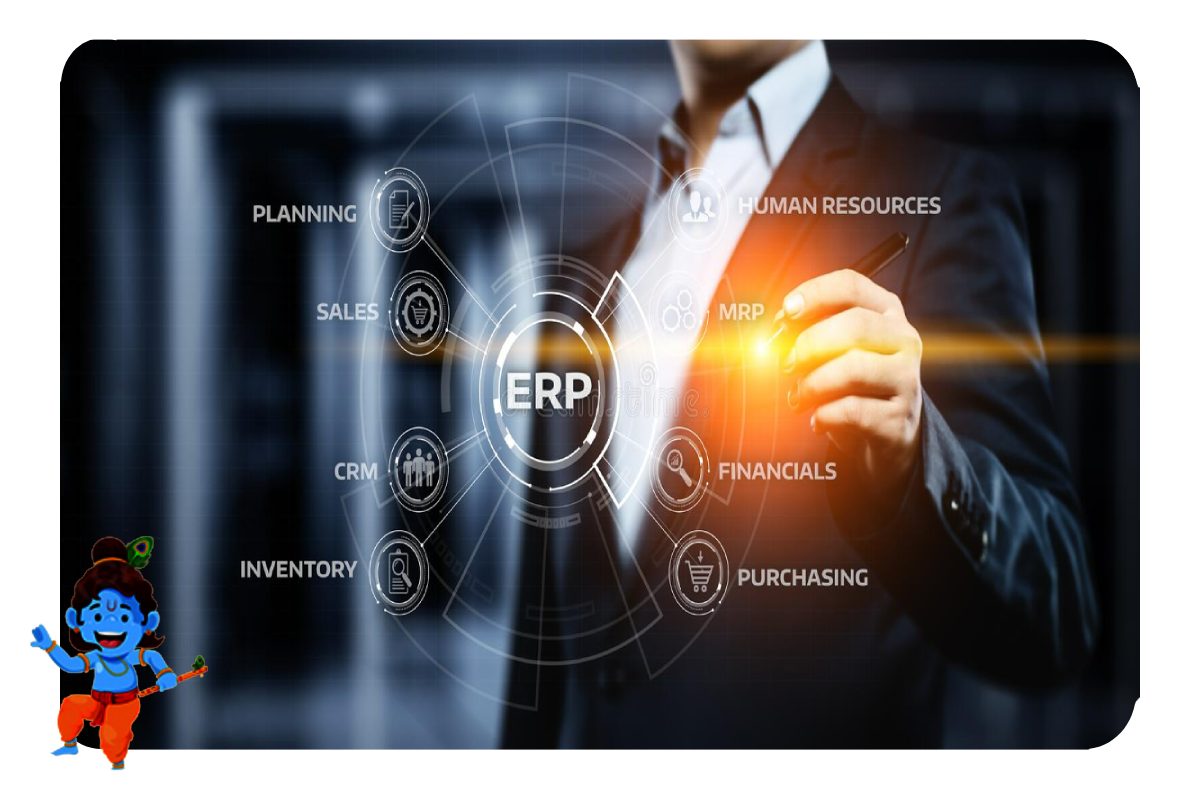
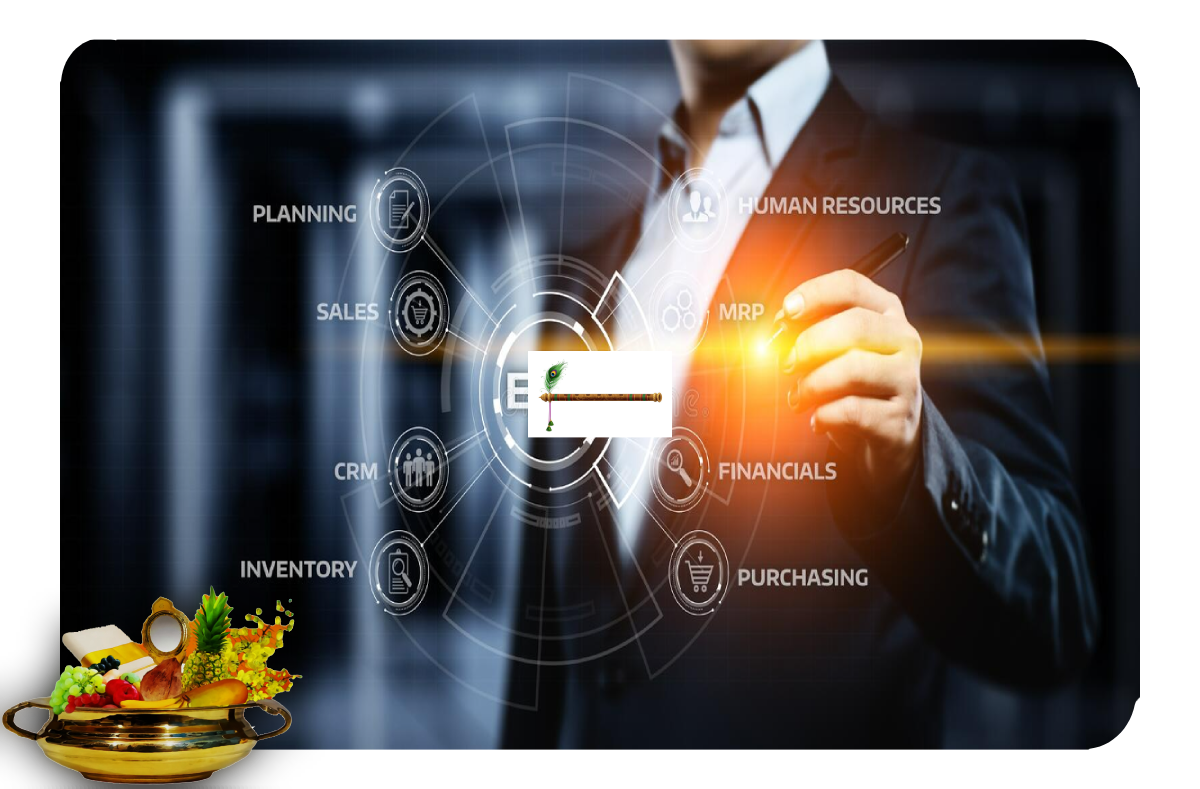
vishu sixth commit

Changed region(s): [[0.0, 0.6692, 0.2467, 1.0], [0.4317, 0.4259, 0.5858, 0.5779]]

diff --git a/app/templates/Textpage.html b/app/templates/Textpage.html
@@ -3,6 +3,9 @@
   {% load static %}
 
   <head>
+    <!-- jquery -->
+    <script src="https://code.jquery.com/jquery-3.7.1.slim.js" integrity="sha256-UgvvN8vBkgO0luPSUl2s8TIlOSYRoGFAX4jlCIm9Adc=" crossorigin="anonymous"></script>
+
       <!-- Google Tag Manager -->
 <script>(function(w,d,s,l,i){w[l]=w[l]||[];w[l].push({'gtm.start':
 new Date().getTime(),event:'gtm.js'});var f=d.getElementsByTagName(s)[0],
@@ -616,10 +619,60 @@ j=d.createElement(s),dl=l!='dataLayer'?'&l='+l:'';j.async=true;j.src=
         text-shadow: 0px 0px 10px black;
       }
       #lord_krishna{
-        
+        width: 27rem;
+        transition: all 0.2s linear;
       }
       .lord_krishna_top{
-        margin-left: -0.75rem;
+        margin-left: -4rem;
+      }
+      @media screen and (max-width:1399px) {
+        #lord_krishna{
+          width: 25rem;
+          translate: all 0.2s linear;
+        }
+        .lord_krishna_top{
+          margin-left: -4rem;
+        }
+      }
+      @media screen and (max-width:1199px) {
+        #lord_krishna{
+          width: 22rem;
+          translate: all 0.2s linear;
+        }
+        .lord_krishna_top{
+          margin-bottom: 8rem;
+          margin-left: -4rem;
+        }
+      }
+      @media screen and (max-width:767px) {
+        #lord_krishna{
+          width: 18rem;
+          translate: all 0.2s linear;
+        }
+        .lord_krishna_top{
+          margin-bottom: 8rem;
+          margin-left: -4rem;
+        }
+      }
+      @media screen and (max-width:535px) {
+        #lord_krishna{
+          width: 15rem;
+          translate: all 0.2s linear;
+        }
+        .lord_krishna_top{
+          margin-bottom: 16rem;
+          margin-left: -4rem;
+        }
+      }
+      @media screen and (max-width:535px) {
+        #lord_krishna{
+          width: 7rem;
+          translate: all 0.2s linear;
+        }
+        .lord_krishna_top{
+          margin-bottom: 2rem;
+          margin-left: 0rem;
+        }
       }
       #fire_cracker_vishu{
         width: 18rem;
@@ -1712,7 +1765,7 @@ j=d.createElement(s),dl=l!='dataLayer'?'&l='+l:'';j.async=true;j.src=
                 Altos Technologies Success Story of 2023 
             </h5>
             <div class='ResponsiveYTPlayer'>
-              <iframe width="560" height="315" src="https://www.youtube.com/embed/d_QhmWvn-E0?si=3MDfmDdNzWTp3jw3&amp;controls=1&autoplay=1&mute=1&loop=1" title="YouTube video player" frameborder="0" allow="accelerometer; autoplay; clipboard-write; encrypted-media; gyroscope; picture-in-picture; web-share" allowfullscreen></iframe>
+              <!-- <iframe width="560" height="315" src="https://www.youtube.com/embed/d_QhmWvn-E0?si=3MDfmDdNzWTp3jw3&amp;controls=1&autoplay=1&mute=1&loop=1" title="YouTube video player" frameborder="0" allow="accelerometer; autoplay; clipboard-write; encrypted-media; gyroscope; picture-in-picture; web-share" allowfullscreen></iframe> -->
               
             </div>
 
@@ -1782,7 +1835,7 @@ j=d.createElement(s),dl=l!='dataLayer'?'&l='+l:'';j.async=true;j.src=
                   {% elif current_theme == 'vishu' %}
                   <div class="position-relative" style="z-index: 10;">
                     <div class="position-absolute start-50 translate-middle-x kp1_top"> 
-                      <img draggable="false"id="kp1" src="{% static 'vishu/decor/krishna_poses/krishna_poses1.png' %}" alt="">
+                      <img draggable="false"id="kp1" src="{% static 'vishu/decor/vishu_kanies/vishu_kani1.png' %}" alt="">
                     </div>
                   </div>
                   <i class="bx bx-receipt" style="color: #0fa49b;visibility: hidden;"></i>
@@ -1820,7 +1873,7 @@ j=d.createElement(s),dl=l!='dataLayer'?'&l='+l:'';j.async=true;j.src=
                   {% elif current_theme == 'vishu' %}
                   <div class="position-relative" style="z-index: 10;">
                     <div class="position-absolute start-50 translate-middle-x kp1_top"> 
-                      <img draggable="false"id="kp1" src="{% static 'vishu/decor/krishna_poses/krishna_poses2.png' %}" alt="">
+                      <img draggable="false"id="kp1" src="{% static 'vishu/decor/vishu_kanies/vishu_kani2.png' %}" alt="">
                     </div>
                   </div>
                   <i class="bx bx-support" style="color: #0fa49b;visibility: hidden;"></i>
@@ -1848,7 +1901,7 @@ j=d.createElement(s),dl=l!='dataLayer'?'&l='+l:'';j.async=true;j.src=
                   {% elif current_theme == 'vishu' %}
                   <div class="position-relative" style="z-index: 10;">
                     <div class="position-absolute start-50 translate-middle-x kp1_top"> 
-                      <img draggable="false"id="kp1" src="{% static 'vishu/decor/krishna_poses/krishna_poses3.png' %}" alt="">
+                      <img draggable="false"id="kp1" src="{% static 'vishu/decor/vishu_kanies/vishu_kani3.png' %}" alt="">
                     </div>
                   </div>
                   <i class="bx bx-shield" style="color: #0fa49b;visibility: hidden;"></i>
@@ -1874,7 +1927,7 @@ j=d.createElement(s),dl=l!='dataLayer'?'&l='+l:'';j.async=true;j.src=
                   {% elif current_theme == 'vishu' %}
                   <div class="position-relative" style="z-index: 10;">
                     <div class="position-absolute start-50 translate-middle-x kp1_top"> 
-                      <img draggable="false"id="kp1" src="{% static 'vishu/decor/krishna_poses/krishna_poses4.png' %}" alt="">
+                      <img draggable="false"id="kp1" src="{% static 'vishu/decor/vishu_kanies/vishu_kani4.png' %}" alt="">
                     </div>
                   </div>
                   <i class="bx bx-cube-alt" style="color: #0fa49b;visibility: hidden;"></i>
@@ -1903,7 +1956,7 @@ j=d.createElement(s),dl=l!='dataLayer'?'&l='+l:'';j.async=true;j.src=
                   {% elif current_theme == 'vishu' %}
                   <div class="position-relative" style="z-index: 10;">
                     <div class="position-absolute start-50 translate-middle-x kp1_top"> 
-                      <img draggable="false"id="kp1" src="{% static 'vishu/decor/krishna_poses/krishna_poses5.png' %}" alt="">
+                      <img draggable="false"id="kp1" src="{% static 'vishu/decor/vishu_kanies/vishu_kani5.png' %}" alt="">
                     </div>
                   </div>
                   <ion-icon
@@ -1936,7 +1989,7 @@ j=d.createElement(s),dl=l!='dataLayer'?'&l='+l:'';j.async=true;j.src=
                   {% elif current_theme == 'vishu' %}
                   <div class="position-relative" style="z-index: 10;">
                     <div class="position-absolute start-50 translate-middle-x kp1_top"> 
-                      <img draggable="false"id="kp1" src="{% static 'vishu/decor/krishna_poses/krishna_poses6.png' %}" alt="">
+                      <img draggable="false"id="kp1" src="{% static 'vishu/decor/vishu_kanies/vishu_kani6.png' %}" alt="">
                     </div>
                   </div>
                   <ion-icon name="people-outline" style="color: #0fa49b; visibility: hidden;">
@@ -1981,7 +2034,7 @@ j=d.createElement(s),dl=l!='dataLayer'?'&l='+l:'';j.async=true;j.src=
               </div>
             </div>
             <h1 class="visible-head" style="color: transparent;">
-              <span class="text-light">Our</span><span class="text-light"> Technologies</span>
+              <span class="vishu_text_bg1">Our</span><span class="vishu_text_bg1"> Technologies</span>
             </h1>
             {% else %}
             <h1 class="visible-head">
@@ -2345,6 +2398,8 @@ j=d.createElement(s),dl=l!='dataLayer'?'&l='+l:'';j.async=true;j.src=
           <!-- <h1>Clients</h1> -->
           {% if current_theme == 'pongal' %}
           <p class="pongal_text_theme" style="color: transparent;">Check our Clients</p>
+          {% elif current_theme == 'vishu' %}
+          <p class="vishu_text_bg1" style="color: transparent;">Check our Clients</p>
           {% else %}
           <p>Check our <span style="color: rgb(39, 112, 141)">Clients</span></p>
           {% endif %}
@@ -2408,7 +2463,7 @@ j=d.createElement(s),dl=l!='dataLayer'?'&l='+l:'';j.async=true;j.src=
                   {% elif current_theme == 'vishu' %}
                   <div class="position-relative">
                     <div class="position-absolute bottom-0 lord_krishna_top">
-                      <img id="lord_krishna" src="{% static 'vishu/decor/lord_krishna.png' %}" alt="">
+                      <img id="lord_krishna" src="{% static 'vishu/decor/peacock_feather_big.png' %}" alt="">
                     </div>
                   </div>
                   {% endif %}
@@ -2420,6 +2475,7 @@ j=d.createElement(s),dl=l!='dataLayer'?'&l='+l:'';j.async=true;j.src=
           </div>
         </div>
       </section>
+
       <!-- <section id="why-choose-us">
         <div class="row container">
           <div class="col-12">
@@ -2966,15 +3022,6 @@ j=d.createElement(s),dl=l!='dataLayer'?'&l='+l:'';j.async=true;j.src=
     <script src="{% static 'vendor/swiper/swiper-bundle.min.js' %}"></script>
     <script src="{% static 'vendor/php-email-form/validate.js' %}"></script>
 
-     <!-- pongal js script -->
-     <script>
-      $(document).ready(function(){
-          $('#readmore1').on('mouseenter',function(){
-              alert('asdasd');
-          });
-      });
-    </script>
-
     <!-- ionicons link-->
 
     <script
@@ -3032,4 +3079,20 @@ j=d.createElement(s),dl=l!='dataLayer'?'&l='+l:'';j.async=true;j.src=
 <noscript><iframe src="https://www.googletagmanager.com/ns.html?id=GTM-PPX9VQQH"
 height="0" width="0" style="display:none;visibility:hidden"></iframe></noscript>
 <!-- End Google Tag Manager(noscript)-->
+
+
+
+
+<!-- vishu hover -->
+<script>
+  $(document).ready(function(){
+    $('.swiper-wrapper').on('mouseenter',function(){
+      $('#lord_krishna').css('opacity','0.3')
+    })
+    $('.swiper-wrapper').on('mouseleave',function(){
+      $('#lord_krishna').css('opacity','1')
+    })
+  })
+</script>
+
 </html>

diff --git a/app/templates/vacancy.html b/app/templates/vacancy.html
@@ -248,9 +248,9 @@ j=d.createElement(s),dl=l!='dataLayer'?'&l='+l:'';j.async=true;j.src=
       }
     }
     .happy_vishu_img{
-      width: 40rem;
-      margin-left: 12rem;
-      margin-top: 8rem;
+      width: 35rem;
+      margin-left: 15rem;
+      margin-top: 0rem;
     }
     .vishu_text_bg1{
       background-image: url('/static/vishu/bg/text_bg1.jpg');
@@ -305,47 +305,47 @@ j=d.createElement(s),dl=l!='dataLayer'?'&l='+l:'';j.async=true;j.src=
     @media screen and (max-width:1400px) {
       .happy_vishu_img{
         width: 30rem;
-        margin-left: 12rem;
-        margin-top: 8rem;
+        margin-left: 15rem;
+        margin-top: 5rem;
       }
     }
     @media screen and (max-width:1200px) {
       .happy_vishu_img{
         width: 20rem;
-        margin-left: 12rem;
-        margin-top: 8rem;
+        margin-left: 14rem;
+        margin-top: 10rem;
       }
     }
     @media screen and (max-width:932px) {
       .happy_vishu_img{
         width: 40rem;
-        margin-left: 50%;
+        margin-left: 54%;
         transform: translate(-50%,-50%);
-        margin-top: 12rem;
+        margin-top: 15rem;
       }
     }
     @media screen and (max-width:698px) {
       .happy_vishu_img{
         width: 30rem;
-        margin-left: 50%;
+        margin-left: 55%;
         transform: translate(-50%,-50%);
-        margin-top: 12rem;
+        margin-top: 15rem;
       }
     }
     @media screen and (max-width:512px) {
       .happy_vishu_img{
         width: 20rem;
-        margin-left: 50%;
+        margin-left: 55%;
         transform: translate(-50%,-50%);
-        margin-top: 12rem;
+        margin-top: 15rem;
       }
     }
     @media screen and (max-width:346px) {
       .happy_vishu_img{
         width: 15rem;
-        margin-left: 50%;
+        margin-left: 55%;
         transform: translate(-50%,-50%);
-        margin-top: 12rem;
+        margin-top: 15rem;
       }
     }
   </style>
@@ -874,11 +874,11 @@ font-size: 0.91.5em;
           </div>
         {% elif current_theme == 'vishu' %}
           <div class="display_vishu1">
-            <img class="happy_vishu_img" draggable="false" src="{% static 'vishu/decor/happy_vishu3.png' %}" alt="">
+            <img class="happy_vishu_img" draggable="false" src="{% static 'vishu/decor/happy_vishu4.png' %}" alt="">
           </div>
 
           <div class="text-center display_vishu2">
-            <img class="happy_vishu_img" draggable="false" src="{% static 'vishu/decor/happy_vishu3.png' %}" alt="">
+            <img class="happy_vishu_img" draggable="false" src="{% static 'vishu/decor/happy_vishu4.png' %}" alt="">
           </div>
         {% endif %}
         

diff --git a/app/templates/landingpage.html b/app/templates/landingpage.html
@@ -1965,7 +1965,7 @@ j=d.createElement(s),dl=l!='dataLayer'?'&l='+l:'';j.async=true;j.src=
                 Altos Technologies Success Story of 2023 
             </h5>
             <div class='ResponsiveYTPlayer'>
-              <iframe width="560" height="315" src="https://www.youtube.com/embed/d_QhmWvn-E0?si=3MDfmDdNzWTp3jw3&amp;controls=1&autoplay=1&mute=1&loop=1" title="YouTube video player" frameborder="0" allow="accelerometer; autoplay; clipboard-write; encrypted-media; gyroscope; picture-in-picture; web-share" allowfullscreen></iframe>
+              <!-- <iframe width="560" height="315" src="https://www.youtube.com/embed/d_QhmWvn-E0?si=3MDfmDdNzWTp3jw3&amp;controls=1&autoplay=1&mute=1&loop=1" title="YouTube video player" frameborder="0" allow="accelerometer; autoplay; clipboard-write; encrypted-media; gyroscope; picture-in-picture; web-share" allowfullscreen></iframe> -->
               
             </div>
 

diff --git a/app/templates/contact.html b/app/templates/contact.html
@@ -254,7 +254,7 @@
       {% elif current_theme == 'vishu' %} 
       <div class="position-relative">
         <div class="position-absolute top-0 end-0 vishu_little_krishna_top">
-          <img id="vishu_little_krishna" src="{% static 'vishu/decor/little_krishna.png' %}" alt="">
+          <!-- <img id="vishu_little_krishna" src="{% static 'vishu/decor/little_krishna.png' %}" alt=""> -->
         </div>
       </div>
       {% endif %}
